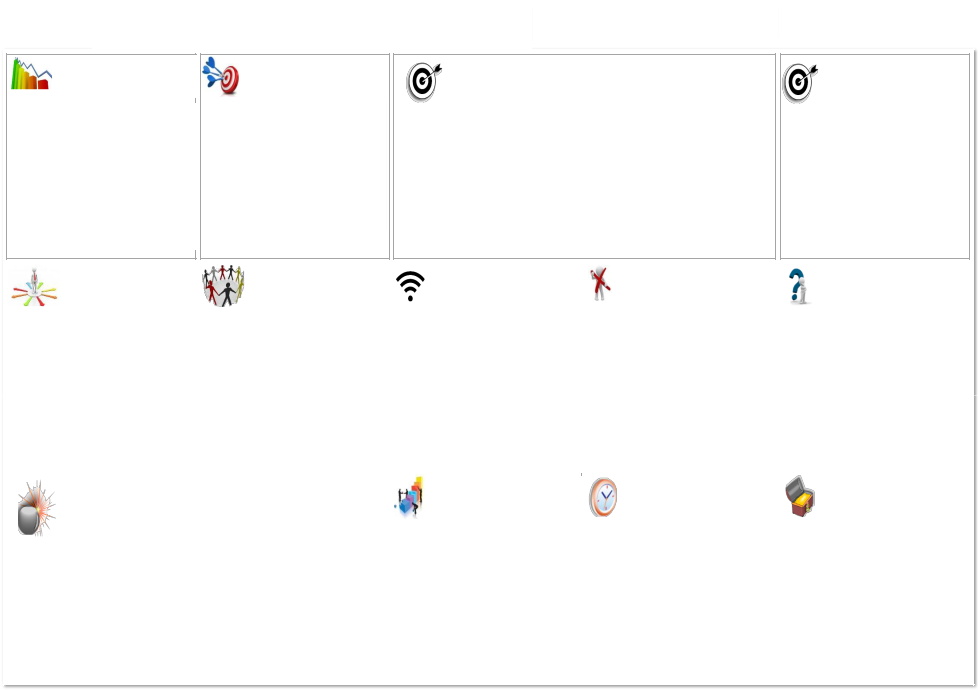
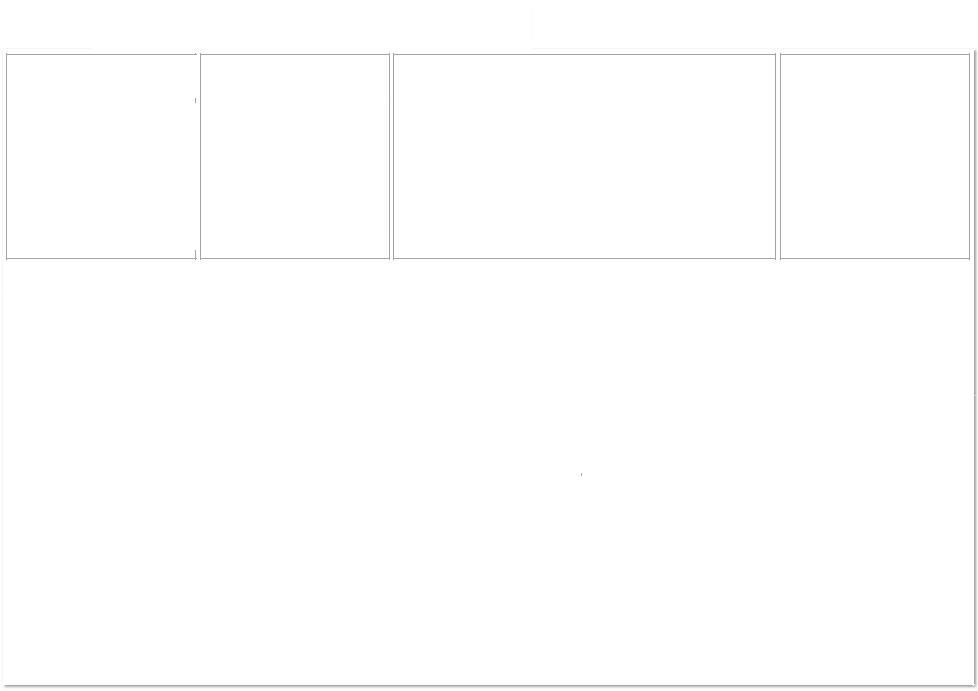
fix(documentos): ícones do Canvas redesenhados em vetor, iguais ao modelo
Os 13 ícones dos blocos vinham do DOCX de referência em baixa resolução,
achatados na imagem de fundo (o DOCX só tem essa imagem de 978x691).
- Redesenhados em SVG com a mesma composição, cores e posição dos originais
  (canvas/IconesCanvas.tsx); nítidos na tela, no PDF e no Word.
- Ícones apagados da arte de fundo, preservando as linhas da grade.
- Coordenadas de seno/cosseno arredondadas (sem erro de hidratação).
- CSS da folha exportado como ESTILO_CANVAS (sem mudança visual).

diff --git a/components/projetos/documentacao/canvas/IconesCanvas.tsx b/components/projetos/documentacao/canvas/IconesCanvas.tsx
@@ -1,0 +1,283 @@
+import { useId, type ReactNode } from 'react'
+
+/**
+ * Ícones dos 13 blocos do Canvas, redesenhados em vetor a partir dos ícones do
+ * DOCX de referência (mesma composição, cores e posição; a arte original só
+ * existia em baixa resolução, achatada no fundo). Cada um é um SVG só, com
+ * cores fixas, então fica nítido na tela, no PDF e no Word.
+ */
+
+type Desenho = (g: (nome: string) => string) => ReactNode
+
+/** Arredonda coordenadas calculadas com seno/cosseno: servidor e navegador diferem nas últimas casas e quebravam a hidratação. */
+const r2 = (n: number) => Math.round(n * 100) / 100
+
+/** Boneco de papel (cabeça, braços abertos e pernas) para o círculo de stakeholders. */
+const boneco = (x: number, y: number, s: number, cor: string) => (
+  <g transform={`translate(${x} ${y}) scale(${s})`} fill={cor}>
+    <circle cx="0" cy="-7.2" r="1.9" />
+    <path d="M-1.6 -5 h3.2 l4.6 2.6 -0.7 1.1 -3.6 -1.6 0.2 3.2 2.4 6.4 -1.5 0.6 -2.6 -5.6 -2.6 5.6 -1.5 -0.6 2.4 -6.4 0.2 -3.2 -3.6 1.6 -0.7 -1.1 z" />
+  </g>
+)
+
+/** Boneco 3D branco (cabeça, corpo e pernas sombreados), usado em Restrições, Premissas e Estratégia. */
+const pessoa3d = (gr: string, cx: number, topo: number, s: number) => (
+  <g transform={`translate(${cx} ${topo}) scale(${s})`}>
+    <circle cx="0" cy="3" r="3" fill={`url(#${gr})`} />
+    <path d="M-3.4 7 Q0 6 3.4 7 L3 15 2.4 15 2 22.5 0.4 22.5 0 16 -0.4 22.5 -2 22.5 -2.4 15 -3 15 Z" fill={`url(#${gr})`} />
+  </g>
+)
+
+const DESENHOS: Record<string, { viewBox: string; desenho: Desenho }> = {
+  // Gráfico de barras em degradê (verde → vermelho) com a linha azul em zigue-zague.
+  justificativa: {
+    viewBox: '0 0 50 34',
+    desenho: g => <>
+      <defs>
+        {[['b1', '#2fa83a', '#7cd35a'], ['b2', '#6cbf2e', '#b5e04a'], ['b3', '#c9d22a', '#eef06a'], ['b4', '#f0b51e', '#ffd95a'], ['b5', '#ea7a1a', '#ffb04d'], ['b6', '#c81e12', '#ee5a3a']].map(([id, a, b]) => (
+          <linearGradient key={id} id={g(id)} x1="0" x2="1"><stop offset="0" stopColor={b} /><stop offset="0.6" stopColor={a} /><stop offset="1" stopColor={a} stopOpacity="0.85" /></linearGradient>
+        ))}
+      </defs>
+      {[[3, 3], [8.6, 7.5], [14.2, 11.5], [19.8, 15], [25.4, 18.5]].map(([x, topo], i) => (
+        <path key={i} d={`M${x} ${topo + 1.2} q0 -1.2 2.6 -1.2 q2.6 0 2.6 1.2 V32 H${x} Z`} fill={`url(#${g(`b${i + 1}`)})`} />
+      ))}
+      <path d="M32 22.5 q0 -1 4 -1 h6 q4 0 4 1 V32 H32 Z" fill={`url(#${g('b6')})`} />
+      <path d="M6 2.5 L11 9 L14 5.5 L19.5 13 L23 8.5 L30.5 17.5 L37 12 L45.5 21.5" fill="none" stroke="#3b6fc4" strokeWidth="1.3" strokeLinejoin="round" strokeLinecap="round" />
+      <path d="M2 32.6 H47" stroke="#9aa3ad" strokeWidth="0.6" />
+    </>,
+  },
+  // Alvo vermelho e branco com três dardos azuis.
+  objetivos: {
+    viewBox: '0 0 44 46',
+    desenho: g => <>
+      <defs>
+        <radialGradient id={g('sombra')}><stop offset="0" stopColor="#000" stopOpacity="0.25" /><stop offset="1" stopColor="#000" stopOpacity="0" /></radialGradient>
+        <linearGradient id={g('pena')} x1="0" x2="1" y1="0" y2="1"><stop offset="0" stopColor="#7fb2ee" /><stop offset="1" stopColor="#1f5fbf" /></linearGradient>
+      </defs>
+      <ellipse cx="31" cy="40" rx="10" ry="2.2" fill={`url(#${g('sombra')})`} />
+      {[[11.5, '#c8161d'], [9.2, '#fff'], [7, '#d81e25'], [4.8, '#fff'], [2.6, '#d81e25']].map(([r, cor], i) => (
+        <ellipse key={i} cx="31" cy="23" rx={Number(r) * 0.86} ry={Number(r)} fill={String(cor)} stroke={i === 0 ? '#8e0d12' : 'none'} strokeWidth="0.5" />
+      ))}
+      {[[5, 5, 0], [3.5, 15.5, 0], [6, 27.5, 0]].map(([x, y], i) => (
+        <g key={i}>
+          <path d={`M${x + 5} ${y + 4} L29.5 22.5`} stroke="#34507a" strokeWidth="1" strokeLinecap="round" />
+          <path d={`M${x} ${y} q4 -1 7 2.5 l-1.5 3 q-4 0.5 -5.5 -5.5 Z`} fill={`url(#${g('pena')})`} />
+          <path d={`M${x - 1} ${y + 5.5} q3.5 -2 7 0.5 l-0.8 2.5 q-3.5 1 -6.2 -3 Z`} fill={`url(#${g('pena')})`} />
+        </g>
+      ))}
+    </>,
+  },
+  // Alvo preto e branco com dardo no centro (Escopo).
+  escopo: {
+    viewBox: '0 0 36 41',
+    desenho: g => <>
+      <defs>
+        <radialGradient id={g('aro')} cx="0.45" cy="0.45"><stop offset="0.85" stopColor="#fff" /><stop offset="1" stopColor="#c9c9c9" /></radialGradient>
+      </defs>
+      <ellipse cx="16.5" cy="23" rx="15" ry="16.5" fill="#bdbdbd" opacity="0.55" />
+      <ellipse cx="15.5" cy="22" rx="14.6" ry="16" fill={`url(#${g('aro')})`} stroke="#a8a8a8" strokeWidth="0.5" />
+      {[[11.6, 12.8, '#111'], [9, 10, '#fff'], [6.6, 7.3, '#111'], [4, 4.5, '#fff'], [2, 2.3, '#111']].map(([rx, ry, cor], i) => (
+        <ellipse key={i} cx="15.5" cy="22" rx={Number(rx)} ry={Number(ry)} fill={String(cor)} />
+      ))}
+      <path d="M15.5 22 L31 6" stroke="#222" strokeWidth="1.1" strokeLinecap="round" />
+      <path d="M28.5 8.5 L35 1.5 L33.6 7.4 Z M28.5 8.5 L35 1.5 L29.2 3 Z" fill="#111" />
+    </>,
+  },
+  escopoNaoIncluido: { viewBox: '0 0 36 41', desenho: g => DESENHOS.escopo.desenho(g) },
+  // Boneco branco no centro com setas coloridas saindo em todas as direções.
+  estrategia: {
+    viewBox: '0 0 47 39',
+    desenho: g => <>
+      <defs>
+        <linearGradient id={g('pessoa')} x1="0" x2="1"><stop offset="0" stopColor="#fff" /><stop offset="1" stopColor="#bfc3c8" /></linearGradient>
+      </defs>
+      <ellipse cx="23.5" cy="26" rx="7" ry="2.2" fill="#e3e6ea" />
+      {[[-178, '#e8432c'], [-150, '#f18a2a'], [-120, '#7ec8f0'], [-60, '#8cd13b'], [-25, '#f2d22c'], [0, '#f39a2a'], [30, '#e8432c'], [150, '#f39a2a'], [170, '#ef5a2c'], [60, '#9fd03a'], [115, '#e8432c']].map(([ang, cor], i) => {
+        const a = (Number(ang) * Math.PI) / 180
+        const x1 = r2(23.5 + Math.cos(a) * 5), y1 = r2(26 + Math.sin(a) * 2.2), x2 = r2(23.5 + Math.cos(a) * 21), y2 = r2(26 + Math.sin(a) * 11)
+        return (
+          <g key={i}>
+            <line x1={x1} y1={y1} x2={x2} y2={y2} stroke={String(cor)} strokeWidth="2" strokeLinecap="round" />
+            <circle cx={x2} cy={y2} r="1.4" fill={String(cor)} />
+          </g>
+        )
+      })}
+      {pessoa3d(g('pessoa'), 23.5, 1, 1)}
+      <path d="M22.6 8 h1.8 l-0.4 6 h-1 z" fill="#d23a2a" />
+    </>,
+  },
+  // Círculo de bonecos de mãos dadas em volta do chão cinza.
+  stakeholders: {
+    viewBox: '0 0 42 42',
+    desenho: g => <>
+      <defs>
+        <radialGradient id={g('chao')} cx="0.5" cy="0.4"><stop offset="0" stopColor="#f1f1f1" /><stop offset="1" stopColor="#b9b9b9" /></radialGradient>
+      </defs>
+      <ellipse cx="21" cy="27" rx="18" ry="13" fill={`url(#${g('chao')})`} />
+      {[[5, 11, 0.62, '#555'], [11.5, 8, 0.62, '#9a9a9a'], [17.5, 7, 0.62, '#9b1b1b'], [24, 7, 0.62, '#333'], [30.5, 8, 0.62, '#7a7a7a'], [36.5, 11, 0.62, '#9a9a2a'], [38.5, 19, 0.7, '#a9a930'], [3, 19, 0.7, '#666']].map(([x, y, s, c], i) => (
+        <g key={i}>{boneco(Number(x), Number(y), Number(s), String(c))}</g>
+      ))}
+      {boneco(10, 30, 1.05, '#b11e1e')}
+      {boneco(23, 31, 1.2, '#1f1f1f')}
+      {boneco(35, 28, 0.9, '#9f9f28')}
+    </>,
+  },
+  // Símbolo de rede sem fio (Comunicação).
+  comunicacao: {
+    viewBox: '0 0 29 31',
+    desenho: () => <>
+      {/* Três arcos de ~100° centrados no ponto, como o símbolo original. */}
+      {[20, 13.5, 7].map((r, i) => {
+        const dx = r2(r * Math.sin(Math.PI * 50 / 180)), dy = r2(r * Math.cos(Math.PI * 50 / 180))
+        return <path key={i} d={`M${14.5 - dx} ${26 - dy} A${r} ${r} 0 0 1 ${14.5 + dx} ${26 - dy}`} fill="none" stroke="#000" strokeWidth="3.4" strokeLinecap="round" />
+      })}
+      <circle cx="14.5" cy="26.5" r="2.7" fill="#000" />
+    </>,
+  },
+  // Boneco branco segurando um X vermelho (Restrições).
+  restricoes: {
+    viewBox: '0 0 21 34',
+    desenho: g => <>
+      <defs>
+        <linearGradient id={g('pessoa')} x1="0" x2="1"><stop offset="0" stopColor="#fff" /><stop offset="1" stopColor="#bdbdbd" /></linearGradient>
+        <linearGradient id={g('x')} x1="0" x2="1"><stop offset="0" stopColor="#e2332b" /><stop offset="1" stopColor="#a1150f" /></linearGradient>
+      </defs>
+      <ellipse cx="10" cy="32.5" rx="5" ry="1" fill="#000" opacity="0.15" />
+      {pessoa3d(g('pessoa'), 9, 1.5, 1.25)}
+      <path d="M3 4.5 L5.4 3 L18.6 24.6 L16.2 26.1 Z" fill={`url(#${g('x')})`} />
+      <path d="M15.5 3 L18 4.5 L6.4 26 L3.9 24.5 Z" fill={`url(#${g('x')})`} />
+    </>,
+  },
+  // Ponto de interrogação azul e boneco branco pensando (Premissas).
+  premissas: {
+    viewBox: '0 0 21 37',
+    desenho: g => <>
+      <defs>
+        <linearGradient id={g('pessoa')} x1="0" x2="1"><stop offset="0" stopColor="#fff" /><stop offset="1" stopColor="#bdbdbd" /></linearGradient>
+        <linearGradient id={g('q')} x1="0" x2="1"><stop offset="0" stopColor="#2f8ab0" /><stop offset="1" stopColor="#145a78" /></linearGradient>
+      </defs>
+      <ellipse cx="12" cy="35.5" rx="7" ry="1.1" fill="#000" opacity="0.15" />
+      <path d="M1.5 7.5 Q1.5 1 7.5 1 Q13.5 1 13.5 6.5 Q13.5 10 10 12.5 Q8.2 13.8 8.2 17 V19 H4.6 V16.5 Q4.6 12 8 9.8 Q9.6 8.6 9.6 6.8 Q9.6 4.5 7.5 4.5 Q5.2 4.5 5.2 7.5 Z" fill={`url(#${g('q')})`} />
+      <circle cx="6.4" cy="23.5" r="2.2" fill={`url(#${g('q')})`} />
+      {pessoa3d(g('pessoa'), 14.5, 9.5, 1.12)}
+    </>,
+  },
+  // Forma cinza 3D com a explosão de raios (Riscos).
+  riscos: {
+    viewBox: '0 0 38 56',
+    desenho: g => <>
+      <defs>
+        <radialGradient id={g('pedra')} cx="0.35" cy="0.3"><stop offset="0" stopColor="#f2f2f2" /><stop offset="0.6" stopColor="#9a9a9a" /><stop offset="1" stopColor="#5b5b5b" /></radialGradient>
+        <radialGradient id={g('brilho')}><stop offset="0" stopColor="#fff6b0" /><stop offset="1" stopColor="#ff8a3a" stopOpacity="0" /></radialGradient>
+      </defs>
+      {Array.from({ length: 26 }, (_, i) => {
+        const a = (-150 + i * 12) * (Math.PI / 180)
+        const comp = 9 + ((i * 7) % 11)
+        return <line key={i} x1="23" y1="20" x2={r2(23 + Math.cos(a) * comp)} y2={r2(20 + Math.sin(a) * comp)} stroke={i % 3 === 0 ? '#8a8a8a' : '#f07a3e'} strokeWidth="0.55" />
+      })}
+      <circle cx="23" cy="20" r="3.2" fill={`url(#${g('brilho')})`} />
+      <path d="M2 30 Q1.5 18 11 17.5 Q20.5 17.5 21 30 V44 Q21 54 11.5 54 Q2 54 2 44 Z" fill={`url(#${g('pedra')})`} stroke="#5a5a5a" strokeWidth="0.4" />
+      <path d="M5 24 Q7 20.5 11 20.5" fill="none" stroke="#fff" strokeOpacity="0.7" strokeWidth="1.2" strokeLinecap="round" />
+    </>,
+  },
+  // Blocos coloridos subindo como escada, com silhuetas empurrando (Fases).
+  fases: {
+    viewBox: '0 0 30 44',
+    desenho: g => <>
+      <defs>
+        {[['azul', '#3b8fe6', '#1d5fb8'], ['roxo', '#a86fd6', '#6e3aa8'], ['ciano', '#5fd0f0', '#1e98c8'], ['vermelho', '#f06a4a', '#c8341f'], ['laranja', '#f7a43a', '#d9781a'], ['amarelo', '#ffe14a', '#e0b81a']].map(([id, a, b]) => (
+          <linearGradient key={id} id={g(id)} x1="0" x2="1"><stop offset="0" stopColor={a} /><stop offset="1" stopColor={b} /></linearGradient>
+        ))}
+      </defs>
+      <ellipse cx="13" cy="41.5" rx="11" ry="1.6" fill="#6a8ff0" opacity="0.25" />
+      {[['amarelo', 21, 1, 7, 10], ['laranja', 19, 9, 8, 9], ['vermelho', 16, 15, 8, 9], ['ciano', 12, 21, 9, 10], ['roxo', 9, 26, 8, 9], ['azul', 4, 31, 10, 10]].map(([cor, x, y, w, h]) => (
+        <g key={String(cor)}>
+          <rect x={Number(x)} y={Number(y)} width={Number(w)} height={Number(h)} fill={`url(#${g(String(cor))})`} />
+          <path d={`M${Number(x)} ${Number(y)} l2 -1.5 h${Number(w)} l-2 1.5 Z`} fill="#fff" opacity="0.45" />
+        </g>
+      ))}
+      {[[3.5, 22, 0.75], [7.5, 19, 0.75], [25, 27, 0.8]].map(([x, y, s], i) => (
+        <g key={i} transform={`translate(${x} ${y}) scale(${s})`} fill="#111">
+          <circle cx="0" cy="0" r="1.6" />
+          <path d="M-1.4 2 h2.8 l1 6 2.4 0.6 -0.3 1 -3 -0.5 -0.2 2.4 1 6 h-1.3 l-1.3 -5.4 -1.3 5.4 h-1.3 l1 -6 -0.5 -4 -1.6 3 -1 -0.4 Z" />
+        </g>
+      ))}
+    </>,
+  },
+  // Relógio de parede com aro cobre e ponteiros azuis (Cronograma).
+  cronograma: {
+    viewBox: '0 0 28 40',
+    desenho: g => <>
+      <defs>
+        <linearGradient id={g('aro')} x1="0" x2="1" y1="0" y2="1"><stop offset="0" stopColor="#f6c79a" /><stop offset="0.5" stopColor="#d6743a" /><stop offset="1" stopColor="#9e4a1f" /></linearGradient>
+        <radialGradient id={g('mostrador')} cx="0.4" cy="0.35"><stop offset="0" stopColor="#fff" /><stop offset="1" stopColor="#dfe8f2" /></radialGradient>
+      </defs>
+      <ellipse cx="15" cy="21" rx="12.5" ry="17.5" fill="#c4c4c4" opacity="0.6" />
+      <ellipse cx="14" cy="20" rx="12.5" ry="17.5" fill={`url(#${g('aro')})`} />
+      <ellipse cx="14.4" cy="20" rx="10.2" ry="14.8" fill={`url(#${g('mostrador')})`} />
+      {Array.from({ length: 12 }, (_, i) => {
+        const a = (i * 30 * Math.PI) / 180
+        return <line key={i} x1={r2(14.4 + Math.sin(a) * 8.6)} y1={r2(20 - Math.cos(a) * 12.6)} x2={r2(14.4 + Math.sin(a) * 9.6)} y2={r2(20 - Math.cos(a) * 14)} stroke={i % 3 === 0 ? '#c0392b' : '#9aa5b1'} strokeWidth={i % 3 === 0 ? 0.9 : 0.5} />
+      })}
+      <path d="M14.4 20 L9.5 9.5" stroke="#1d3f9e" strokeWidth="1.2" strokeLinecap="round" />
+      <path d="M14.4 20 L20 10.5" stroke="#1d3f9e" strokeWidth="1" strokeLinecap="round" />
+      <path d="M14.4 20 L15.6 31" stroke="#e05a2a" strokeWidth="0.5" strokeLinecap="round" />
+      <circle cx="14.4" cy="20" r="0.9" fill="#1d3f9e" />
+    </>,
+  },
+  // Baú aberto com tampa cinza e conteúdo dourado (Orçamento).
+  orcamento: {
+    viewBox: '0 0 30 42',
+    desenho: g => <>
+      <defs>
+        <linearGradient id={g('tampa')} x1="0" x2="1"><stop offset="0" stopColor="#c9cdd2" /><stop offset="1" stopColor="#6d7278" /></linearGradient>
+        <linearGradient id={g('corpo')} x1="0" x2="1"><stop offset="0" stopColor="#a94a3a" /><stop offset="1" stopColor="#6a2219" /></linearGradient>
+        <linearGradient id={g('ouro')} x1="0" x2="1" y1="0" y2="1"><stop offset="0" stopColor="#fff38a" /><stop offset="1" stopColor="#f0b21a" /></linearGradient>
+      </defs>
+      <ellipse cx="15" cy="39.5" rx="13" ry="2" fill="#000" opacity="0.18" />
+      <path d="M4 16 L3 6 Q3 2 7 2 L19 3 Q22 3.3 21.5 7 L20 15 Z" fill={`url(#${g('tampa')})`} stroke="#4c5156" strokeWidth="0.6" />
+      <path d="M5 16 L20 14.5 L27 19 L12 21 Z" fill={`url(#${g('ouro')})`} stroke="#c88a12" strokeWidth="0.5" />
+      <path d="M5 16 L12 21 V38 L5 33.5 Z" fill="#8a3326" stroke="#3a120d" strokeWidth="0.5" />
+      <path d="M12 21 L27 19 V35 L12 38 Z" fill={`url(#${g('corpo')})`} stroke="#3a120d" strokeWidth="0.5" />
+      <path d="M12 21 L27 19" stroke="#e08a2a" strokeWidth="1.4" />
+      <path d="M12 21 L5 16" stroke="#e08a2a" strokeWidth="1.4" />
+      <rect x="22.5" y="25" width="2.5" height="3.2" rx="0.5" fill="#e9c24a" stroke="#8a6a12" strokeWidth="0.4" />
+    </>,
+  },
+}
+
+/** Posição e tamanho de cada ícone na folha (pt), iguais aos do ícone original na arte do DOCX. */
+export const ICONES_CANVAS: { id: string; titulo: string; x: number; y: number; w: number; h: number }[] = [
+  { id: 'justificativa', titulo: 'Justificativa', x: 8.2, y: 98.6, w: 51.5, h: 35 },
+  { id: 'objetivos', titulo: 'Objetivo', x: 207.2, y: 98.6, w: 43.3, h: 45.3 },
+  { id: 'escopo', titulo: 'Escopo', x: 418.5, y: 105.8, w: 36, h: 41.2 },
+  { id: 'escopoNaoIncluido', titulo: 'Escopo não incluído', x: 806, y: 104, w: 36, h: 41.2 },
+  { id: 'estrategia', titulo: 'Estratégia de condução', x: 11.3, y: 317.7, w: 47.4, h: 39.1 },
+  { id: 'stakeholders', titulo: 'Stakeholders', x: 208.2, y: 314.7, w: 42.3, h: 42.2 },
+  { id: 'comunicacao', titulo: 'Comunicação', x: 408.2, y: 320.8, w: 28.9, h: 30.9 },
+  { id: 'restricoes', titulo: 'Restrições', x: 608.1, y: 316.7, w: 20.6, h: 34 },
+  { id: 'premissas', titulo: 'Premissas', x: 813.2, y: 317.7, w: 20.6, h: 37 },
+  { id: 'riscos', titulo: 'Riscos', x: 18.6, y: 535.9, w: 38.1, h: 56.6 },
+  { id: 'fases', titulo: 'Fases', x: 406.1, y: 529.7, w: 29.9, h: 44.2 },
+  { id: 'cronograma', titulo: 'Cronograma', x: 607.1, y: 532.8, w: 27.8, h: 40.1 },
+  { id: 'orcamento', titulo: 'Orçamento', x: 809.1, y: 530.7, w: 29.9, h: 42.2 },
+]
+
+export function IconeCanvas({ id, titulo, x, y, w, h }: (typeof ICONES_CANVAS)[number]) {
+  const base = useId().replace(/:/g, '')
+  const { viewBox, desenho } = DESENHOS[id]
+  return (
+    <svg
+      className="canvas-template-icone"
+      role="img"
+      aria-label={`Ícone: ${titulo}`}
+      viewBox={viewBox}
+      width={`${w}pt`}
+      height={`${h}pt`}
+      preserveAspectRatio="xMidYMid meet"
+      style={{ position: 'absolute', left: `${x}pt`, top: `${y}pt`, zIndex: 2, overflow: 'visible' }}
+    >
+      {desenho(nome => `${base}-${nome}`)}
+    </svg>
+  )
+}

diff --git a/components/projetos/documentacao/CanvasDocumento.tsx b/components/projetos/documentacao/CanvasDocumento.tsx
@@ -2,6 +2,7 @@
 
 import { CampoTexto, Folha } from '@/components/documentos/editor/folha'
 import PostIt from '@/components/ui/PostIt'
+import { ICONES_CANVAS, IconeCanvas } from './canvas/IconesCanvas'
 import type { CabecalhoFormulario } from '@/lib/validation/formulariosGP'
 import type { CanvasConteudo } from '@/lib/validation/documentRevisionSchemas'
 import type { MembroEquipeOption } from './MembroEquipeSelect'
@@ -95,6 +96,8 @@ export function FolhaCanvas({ conteudo, alterar }: RenderFormulario<Canvas>) {
       {/* Base gráfica do DOCX sem os cartões; os post-its são componentes editáveis e redimensionáveis. */}
       {/* eslint-disable-next-line @next/next/no-img-element */}
       <img className="canvas-template-fundo" src="/images/project-canvas-grid.png" alt="" />
+      {/* Ícones dos blocos no padrão do Operum (fora da arte de fundo). */}
+      {ICONES_CANVAS.map(icone => <IconeCanvas key={icone.id} {...icone} />)}
       {POSTITS_CANVAS.map(postIt => (
         <PostIt key={postIt.id} className="canvas-template-postit" placeholder=""
           style={{ position: 'absolute', left: `${postIt.x}pt`, top: `${postIt.y}pt`, width: `${postIt.width}pt`, height: `${postIt.height}pt` }} />
@@ -124,10 +127,8 @@ function normalizar(salvo: Canvas, sistema: DadosFormularios, membros: MembroEqu
   return { ...inicial, ...salvo, cabecalho: salvo.cabecalho ?? {} }
 }
 
-export default function CanvasDocumento({ membros = [] }: { membros?: MembroEquipeOption[] }) {
-  return (
-    <>
-      <style>{`
+/** Estilos da folha do Canvas (posições sobre a arte de fundo, post-its, ícones e campos). */
+export const ESTILO_CANVAS = `
         .canvas-template-fundo{position:absolute;left:0;top:42pt;width:1008pt;height:711pt;max-width:none;object-fit:fill;z-index:0;pointer-events:none}
         .canvas-template-postit{position:absolute;z-index:1;filter:drop-shadow(1px 2px 2px rgb(0 0 0 / 32%))}
         .canvas-template-label,.canvas-template-titulo,.canvas-template-campo{position:absolute;z-index:2;box-sizing:border-box;color:#27313d}
@@ -137,7 +138,12 @@ export default function CanvasDocumento({ membros = [] }: { membros?: MembroEqui
         .canvas-template-campo [data-texto-campo]{height:100%;min-height:100%;overflow:auto;white-space:pre-wrap;overflow-wrap:anywhere}
         .canvas-template-campo textarea{box-sizing:border-box;width:100%;max-height:100%;overflow:auto!important;border:0!important;background:transparent!important;padding:0!important;font:inherit!important;line-height:inherit!important}
         @media print{.canvas-template-campo [data-texto-campo],.canvas-template-campo textarea{overflow:hidden!important}.canvas-template-fundo{-webkit-print-color-adjust:exact;print-color-adjust:exact}}
-      `}</style>
+      `
+
+export default function CanvasDocumento({ membros = [] }: { membros?: MembroEquipeOption[] }) {
+  return (
+    <>
+      <style>{ESTILO_CANVAS}</style>
       <FormularioDocumento<Canvas>
         tipo="CANVAS" documento="Canvas" titulo="Canvas do Projeto" arquivo="canvas-do-projeto.docx"
         membros={membros} inicial={CANVAS_INICIAL} normalizar={normalizar} render={r => <FolhaCanvas {...r} />} paisagem pageSize={{ widthMm: 355.6, heightMm: 267.7 }}

diff --git a/CHANGELOG.md b/CHANGELOG.md
@@ -9,7 +9,7 @@ funcionalidade depois disso é uma versão MINOR.
 
 ## [1.60.1] — 2026-11-19
 
-- **Canvas do projeto:** ajusta a folha para reproduzir a arte-base, os ícones, as posições dos campos e o tamanho de página do DOCX de referência. Retira o título "PROJECT CANVAS" e a versão do cabeçalho do documento.
+- **Canvas do projeto:** ajusta a folha para reproduzir a arte-base, os ícones, as posições dos campos e o tamanho de página do DOCX de referência. Retira o título "PROJECT CANVAS" e a versão do cabeçalho do documento. Os 13 ícones dos blocos foram redesenhados em vetor, iguais aos do modelo e na mesma posição, mas nítidos na tela, no PDF e no Word (antes vinham em baixa resolução, achatados na imagem de fundo).
 - **Post-it reutilizável:** adiciona um cartão amarelo redimensionável com o canto inferior direito dobrado por cima da folha (aba virada para dentro, em tom mais escuro, com contorno, leve curva e sombra), para compor interfaces de Canvas. A dobra acompanha o tamanho do post-it (19% do lado menor, entre 10 e 64 px).
 
 ## [1.60.0] — 2026-11-19
